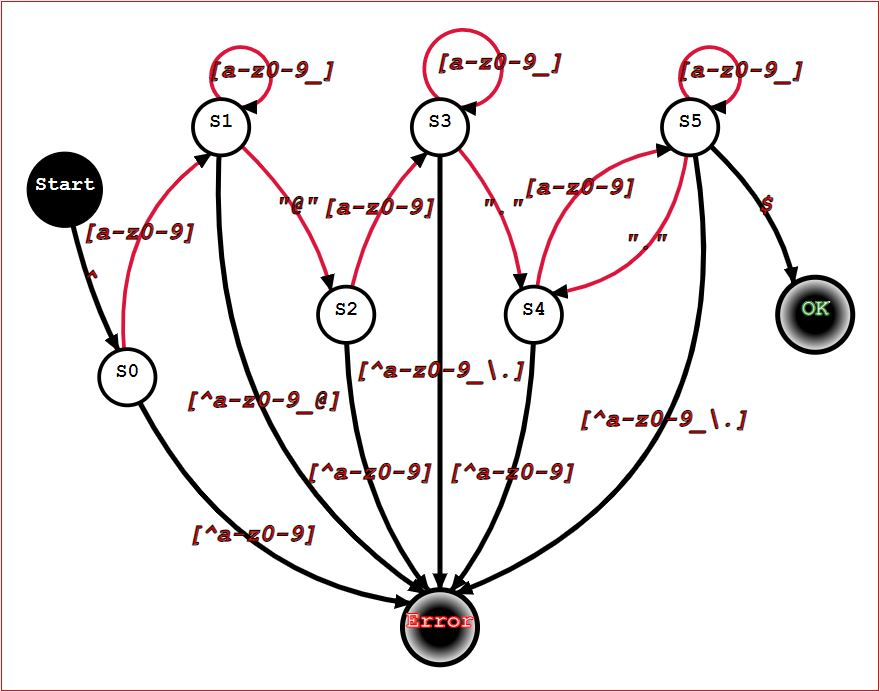
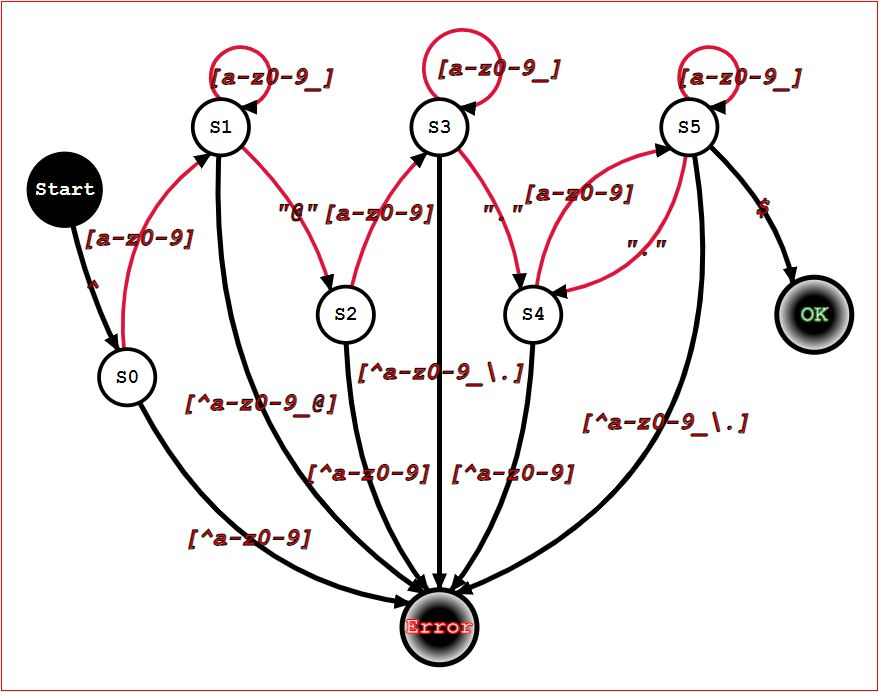
vertex text vertical alignment

diff --git a/src/graph/embedding/embedded_vertex.js b/src/graph/embedding/embedded_vertex.js
@@ -62,7 +62,7 @@ class EmbeddedVertex extends Vertex {
     return `
     <g class="vertex ${cssClasses.join(' ')}" transform="translate(${x},${y})">
       <circle cx="0" cy="0" r="${this.radius}" />
-      <text x="0" y="0" text-anchor="middle">${this.label}</text>
+      <text x="0" y="0" text-anchor="middle" dominant-baseline="central">${this.label}</text>
     </g>`;
   }
 }
